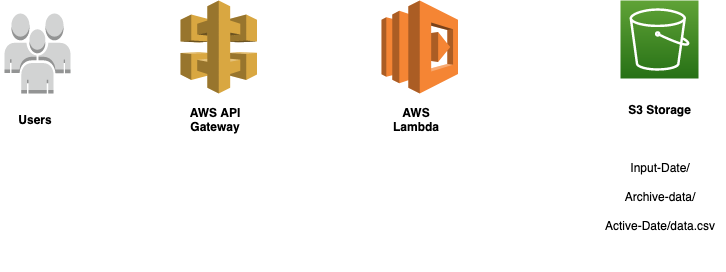
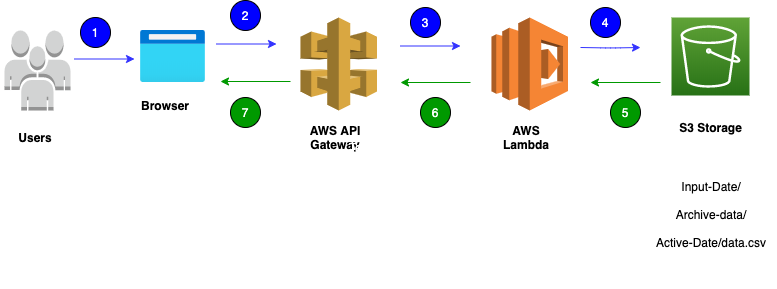
Updated the 'Application Process Flow' in README.

diff --git a/README.md b/README.md
@@ -14,16 +14,18 @@ This application will use several AWS services to store and retrieve data from a
     - [Create a Free AWS Accout](https://aws.amazon.com/free/)
 
 
-### Application Workflow
+### Application Process Flow
 <br>
 
 ![AWS DevOPS Scenario](aws-devops.png)
 
 1. Users access the AWS API gateway using a web browser.
-2. The API gateway performs the request, either GET or POST, to the AWS Lambda function. 
-3. The Lambda function(s) calls the event handler and acts on the data file stored in the S3 bucket.
-4. The Lambda function returns the results to the API gateway.
-5. The API renders the results to the user's browser. 
+2. The browser sends a request to the API gateway resource.
+3. The API gateway performs the request, either GET or POST, to the AWS Lambda function. 
+4. The Lambda function(s) calls the event handler to interact with the S3 API to perform an action on the data file (e., an S3 Select) stored or soon to be held in the S3 bucket.
+5. The S3 client returns a response for the Lambda function to process.
+7. The Lambda function returns a result to the API gateway.
+6. The API renders the results to the user's browser.
 
 
 ### AWS S3 Storage
